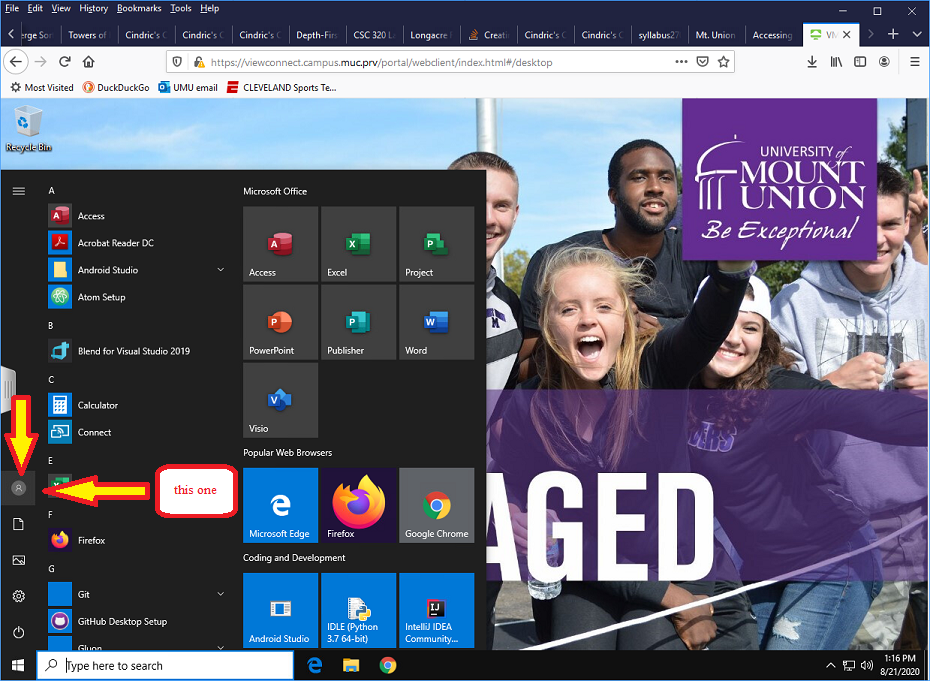
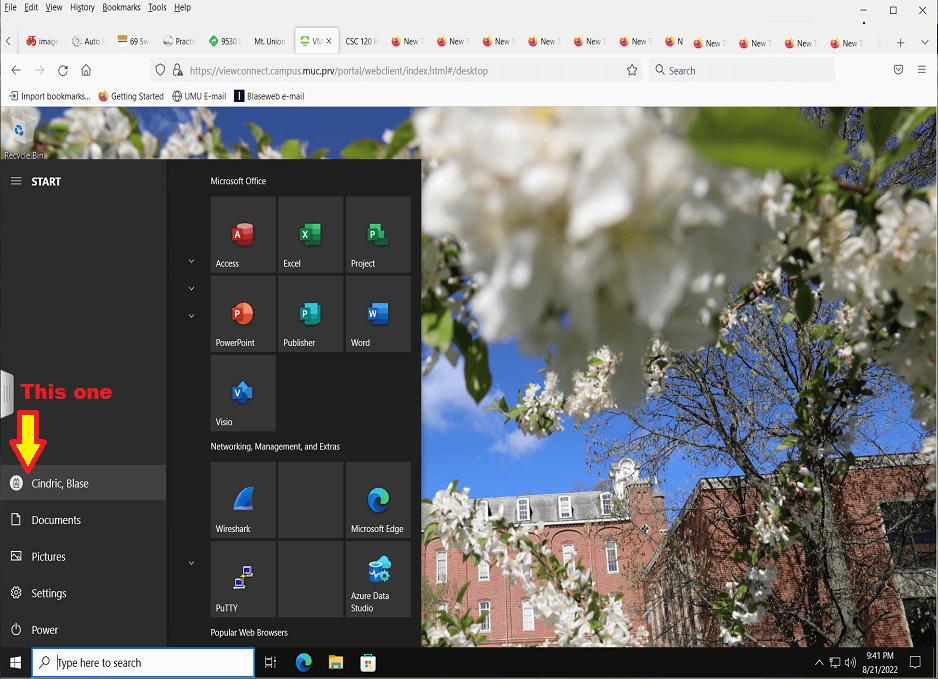
Add files via upload

diff --git a/CSLabVDI/accessCSVDI.html b/CSLabVDI/accessCSVDI.html
@@ -49,7 +49,7 @@
 	
     	<ol type="A">
 	        <li> 
-			    Click the Start button and click on the top icon at the left that looks like a head and shoulders: <br/><br/>
+			    Click the Start button and click on the top icon at the left that looks like a name tag neclace where your name is shown: <br/><br/>
 	            <img src="Step06Ascreenshot.png" />
 			</li> <br/><br/>
 	        <li> 
